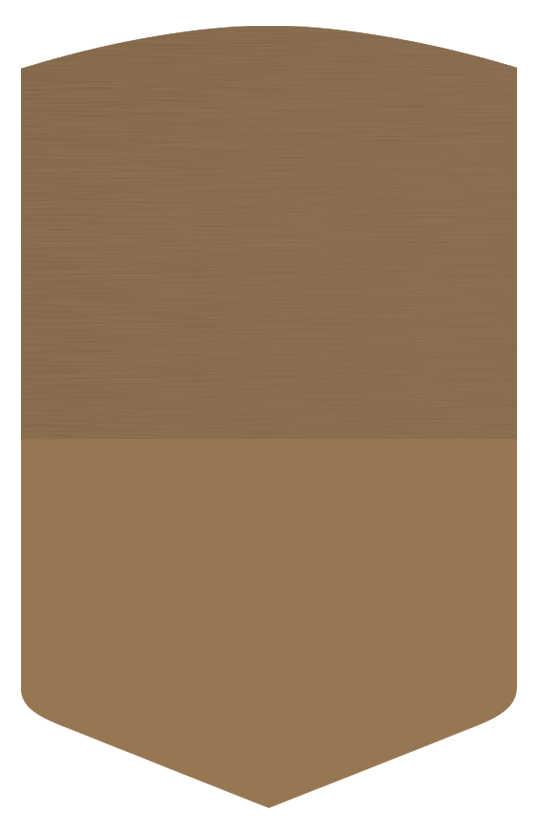
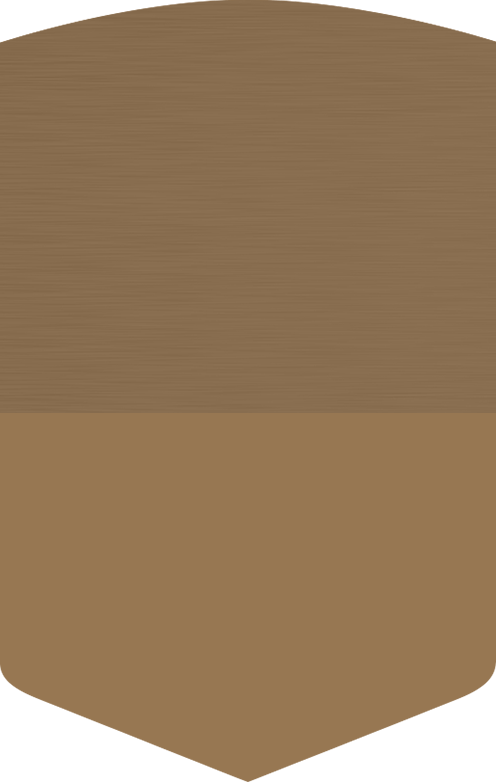
x

Changed region(s): [[0.0, 0.0, 1.0, 1.0]]

diff --git a/styles/styles.css b/styles/styles.css
@@ -35,64 +35,92 @@ ul {
   /* playercard opmaak */
   #playercard{
     display: inline-block;
-    width:550px;
-    height:850px;
+    width:200px;
+    height:300px;
     background-image: url("../images/bronze.png");
     background-repeat:no-repeat;
-    outline:1px dotted red;  /* TEST Outline */
+    background-size: 200px 300px ;
+    /* outline:1px dotted red;  TEST Outline */
   }
   .linker{
     display: inline-block;
-    width:100px;
-    height:350px;
-    margin-top: 78px;
-    margin-left: 40px;
-    outline:1px dotted blue;  /* TEST Outline */
+    width:70px;
+    height:130px;
+    margin-top: 20px;
+    /* outline:1px dotted blue;  TEST Outline */
   }
+  .linker div{
+    
+    display: inline-block;
+    width: 70px;
+    height: 35px;
+    /* outline:1px dotted blue;  TEST Outline */
+
+  }
+  .linker div img{
+    display: block;
+    margin: auto;
+    margin-top: 5px;
+  }
+
   .rechter{
-    display: inline-flex;
-    width:320px;
-    height:350px;
-    margin-top: 78px;
-    margin-left: 30px;
-    outline:1px dotted yellow;  /* TEST Outline */
+    float: right;
+    width:130px;
+    height:130px;
+    margin-top: 20px;
+    margin-right: 0px;
+    /* outline:1px dotted yellow;  TEST Outline */
   }
   .onder{
     display: inline-block;
-    width:460px;
-    height:250px;
+    width:200px;
+    height:90px;
     margin-top: 15px;
-    margin-left: 40px;
-    outline:1px dotted purple;  /* TEST Outline */
+    margin-left: 0px;
+    /* outline:1px dotted purple;  TEST Outline */
   } 
   .displaynaam{
     font-family: "DINPro-Cond-Bold",Arial,sans-serif;
-    font-size: 22px;
-    height: 50px;
-    font-size: 40px;
+    font-weight: bold;
+    height: 15px;
+    font-size: 12px;
     text-align: center;
-    outline:1px dotted white;  /* TEST Outline */
+    /* outline:1px dotted white;  TEST Outline */
   } 
   .displaytekstgetal{
     font-family: "DINPro-Cond-Bold",Arial,sans-serif;
     font-size: 2px;
-    padding-top: 12px;
+    padding-top: 10px;
 
   }
   .displaylinks, .displayrechts{
-    padding: 0 35 0 35;
-    height: 200px;
+    padding: 0 10 0 10;
+    height: 75px;
     display: inline-block;
-    outline:1px dotted blue;  /* TEST Outline */
+    /* outline:1px dotted blue;  TEST Outline */
   }
   .displayrechts{
-    float: left;
+    margin-right: 12px;
+    float: right;
+  }
+  .displaylinks{
+    margin-left: 12px;
   }
   .snelheidtekst, .snelheidgetal{
     display: inline-block;
-    font-size: 30px;
+    font-size: 12px;
   }
-  img{
-    margin-left: 80px;
+  .rechter img{
+    margin-left: 15px;
+    margin-top: 30px;
+    width: 100px;
+    height: 100px;
 
+  }
+  .linker img{
+    display: inline-block;
+    margin-left: 35px;
+    margin-top: 10px;
+    width: 30px;
+    height: 20px;
   }

diff --git a/kaartviewer.html b/kaartviewer.html
@@ -19,7 +19,12 @@
     <!-- <h1>Kaart viewer</h1> -->
     <div class="card">
         <div id="playercard">
-            <div class="linker"></div>
+            <div class="linker">
+                <div class="overall"></div>
+                <div class="position"></div>
+                <div class="nation"><img src="images/saud.png"></div>
+                <div class="club"><img src="images/clubahba.png"></div>
+            </div>
                 <div class="rechter">
                         <img src="images/ALSHARIF.png">
                 </div>
@@ -37,11 +42,7 @@
                             <div class="displaytekstgetal">
                                     <div class="snelheidtekst">Snelheid:</div>
                                     <div class="snelheidgetal">99</div>
-                                </div>
-                                <div class="displaytekstgetal">
-                                    <div class="snelheidtekst">Snelheid:</div>
-                                    <div class="snelheidgetal">99</div>
-                                </div>                  
+                                </div>               
                         </div>
 
                         <div class="displayrechts">
@@ -56,11 +57,7 @@
                                 <div class="displaytekstgetal">
                                         <div class="snelheidtekst">Snelheid:</div>
                                         <div class="snelheidgetal">99</div>
-                                    </div>
-                                    <div class="displaytekstgetal">
-                                        <div class="snelheidtekst">Snelheid:</div>
-                                        <div class="snelheidgetal">99</div>
-                                    </div>                  
+                                    </div>                 
                             </div>
                     </div>
 
